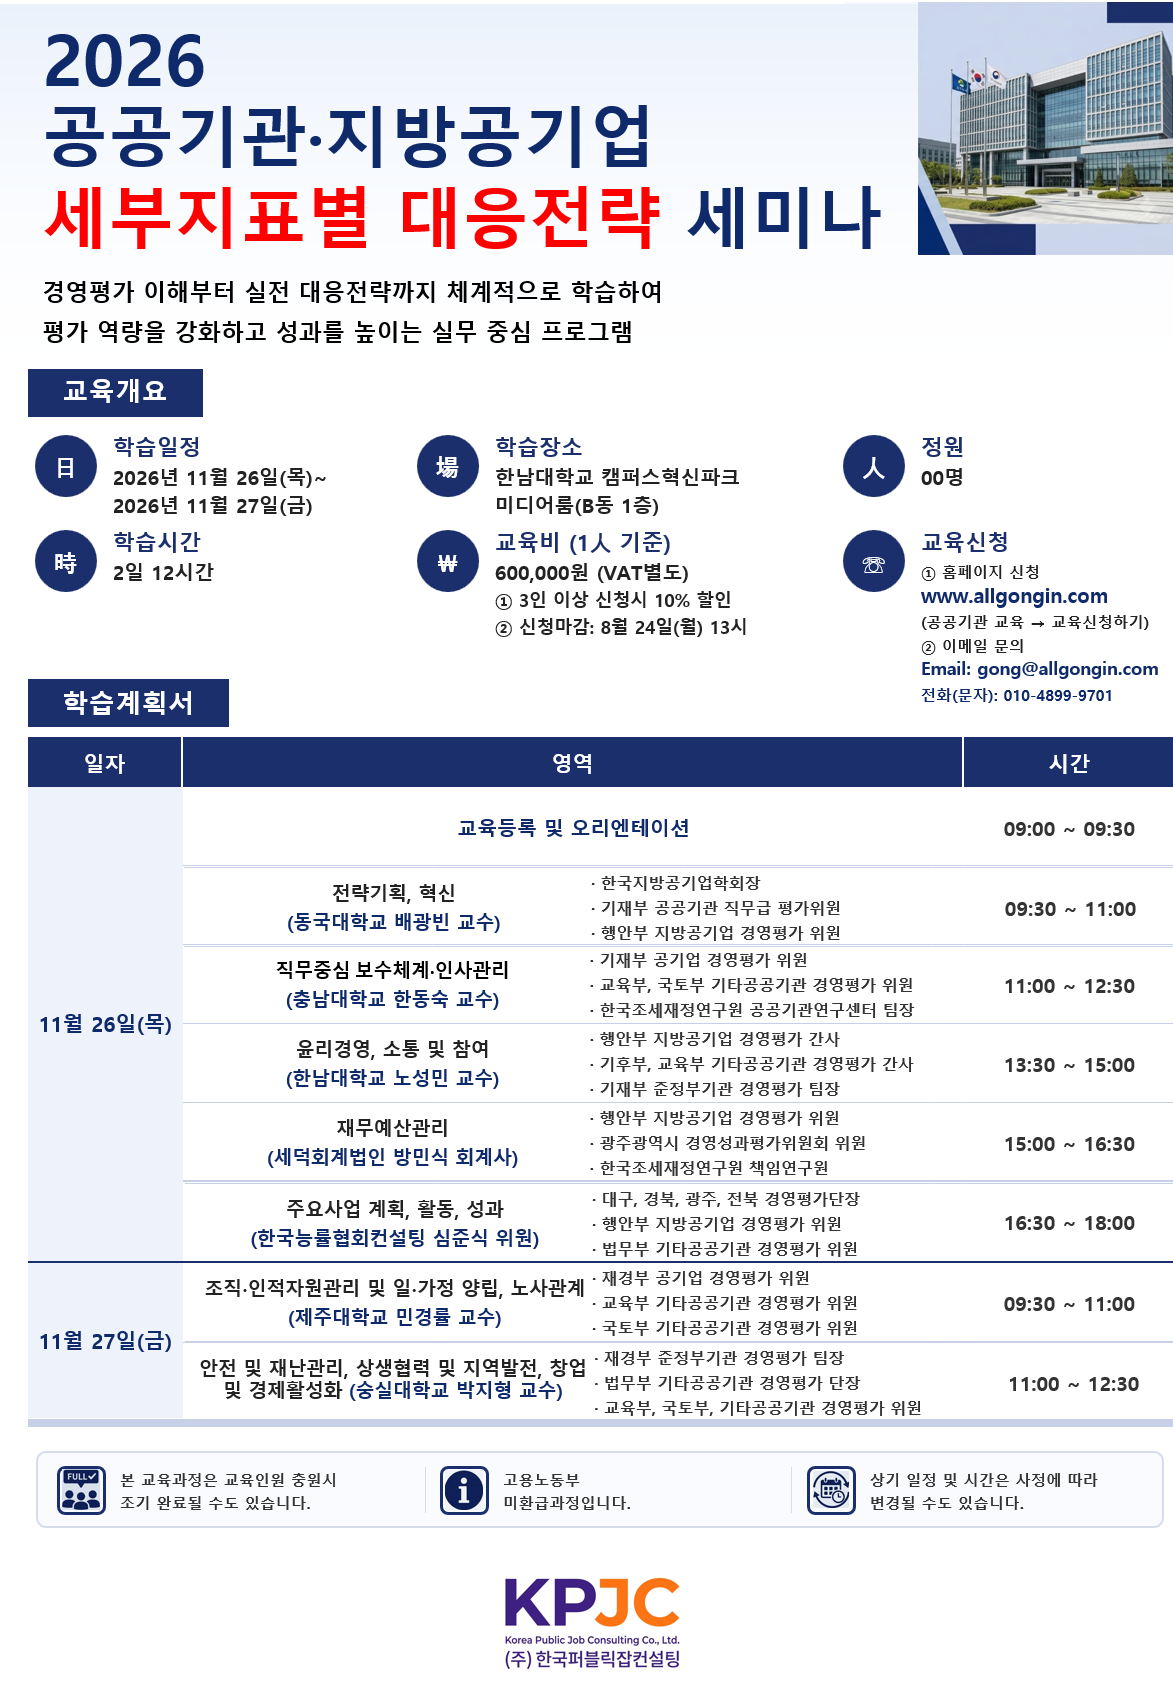
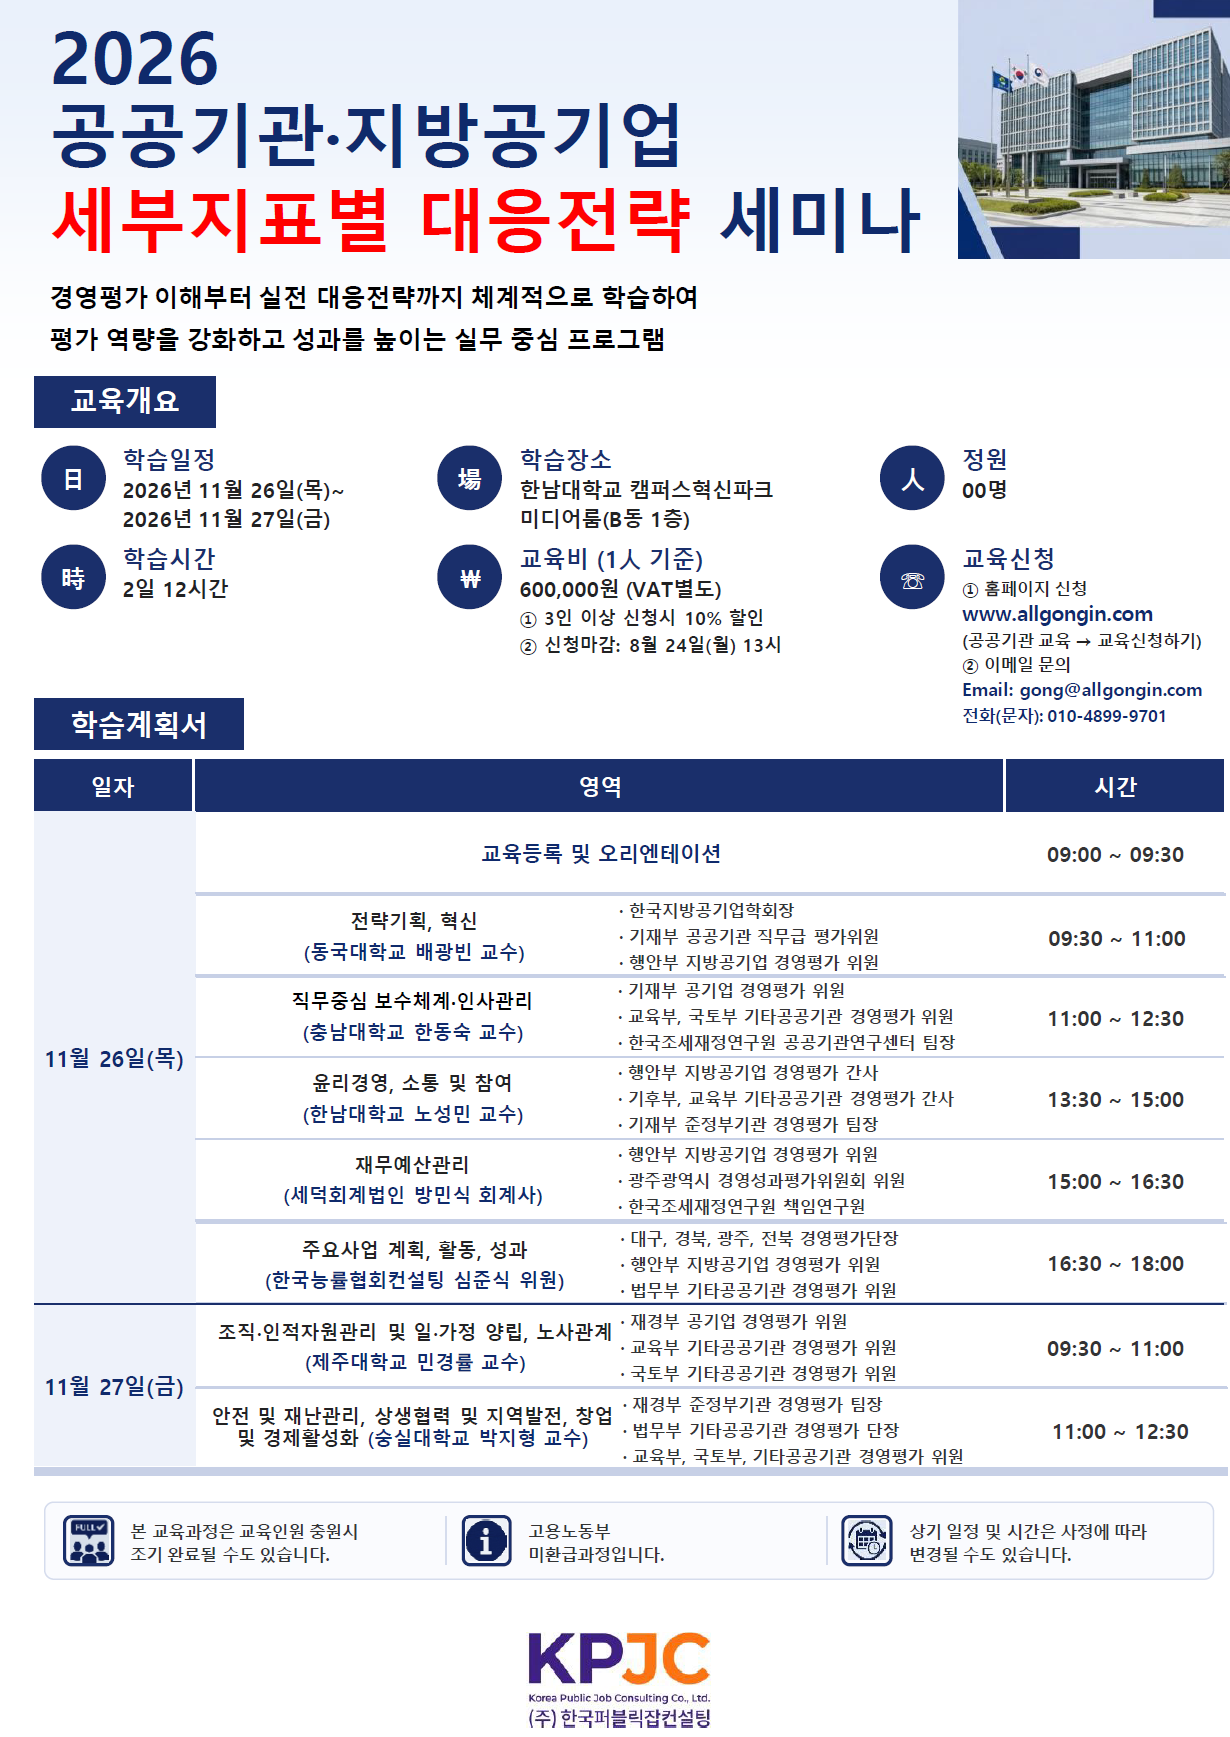
세부지표별 세미나 포스터 고화질 교체 + 홈 팝업 재개
- 교육안내·팝업용 포스터(images/education/8.png)를 고화질본으로 교체,
  캐시 무효화 버전 파라미터 부여
- 홈 접속 팝업을 새 세미나 포스터로 재개 (닫기·바로가기·오늘 하루
  그만 보기 기능 기존과 동일, 클릭 시 공공기관 교육 이동)

Claude-Session: https://claude.ai/code/session_01Qs5W71xmYSvwdwEB2PoZHp

diff --git a/index.html b/index.html
@@ -14295,8 +14295,9 @@ function initCarousel(carouselContainer) {
 </div>
 <script>
   (function () {
-    var POSTER = 'https://firebasestorage.googleapis.com/v0/b/recruit-board.firebasestorage.app/o/docs%2Fpopup.jpg?alt=media';  // 업로드 즉시 접근 가능한 주소(공개 처리 불필요)
-    var FALLBACK = 'images/education/7.png'; // 저장소 내 세미나 카드 (항상 사용 가능)
+    // 세부지표별 대응전략 세미나(11/26~27) 포스터 — 신청 페이지 '교육안내'와 동일한 이미지
+    var POSTER = 'images/education/8.png?v=2';
+    var FALLBACK = POSTER;
 
     function hideIfChecked() {
       try {
@@ -14320,23 +14321,11 @@ function initCarousel(carouselContainer) {
       if (e.target === this) window.closeHomeNoticePopup();
     });
 
-    // 홈 공지 팝업 사용 여부 — 2026-08 세미나 종료로 중단.
-    // 새 행사 홍보 때 true 로 바꾸고 Storage docs/popup.jpg 를 교체하면 재개됨.
-    var POPUP_ENABLED = false;
+    // 홈 공지 팝업 — 세부지표별 대응전략 세미나(11/26~27) 홍보로 재개.
+    // 행사 종료 시 false 로 바꾸면 팝업이 다시 꺼진다.
+    var POPUP_ENABLED = true;
 
-    // 실제 포스터(공개 시) 우선 사용 — 세미나 배너의 상세 이미지도 함께 업그레이드
-    if (POPUP_ENABLED) {
-      var probe = new Image();
-      probe.onload = function () {
-        var fresh = POSTER + '&v=' + new Date().toISOString().slice(0, 10); // 교체 시 하루 내 반영
-        window.__seminarPosterUrl = fresh;
-        var link = document.getElementById('seminarBannerLink');
-        if (link) link.setAttribute('href', fresh);
-        showPopup(POSTER);
-      };
-      probe.onerror = function () { showPopup(FALLBACK); };
-      probe.src = POSTER + '&v=' + new Date().toISOString().slice(0, 10);
-    }
+    if (POPUP_ENABLED) showPopup(POSTER);
 
     var shown = false;
     function showPopup(src) {

diff --git a/edu_apply.html b/edu_apply.html
@@ -183,8 +183,8 @@
       };
       probe.src = fresh;
     }
-    // 교육안내: 세부지표별 대응전략 세미나 포스터 (저장소 이미지)
-    function openEduGuide() { window.open('images/education/8.png', '_blank', 'noopener'); }
+    // 교육안내: 세부지표별 대응전략 세미나 포스터 (저장소 이미지, v=교체 시 캐시 무효화)
+    function openEduGuide() { window.open('images/education/8.png?v=2', '_blank', 'noopener'); }
     function openEduMap() { openWithFallback(MAP_IMG, null, '교육장 약도 준비 중입니다. 문의: 010-4899-9701'); }
 
     // ── 신청자 행 관리 ──
